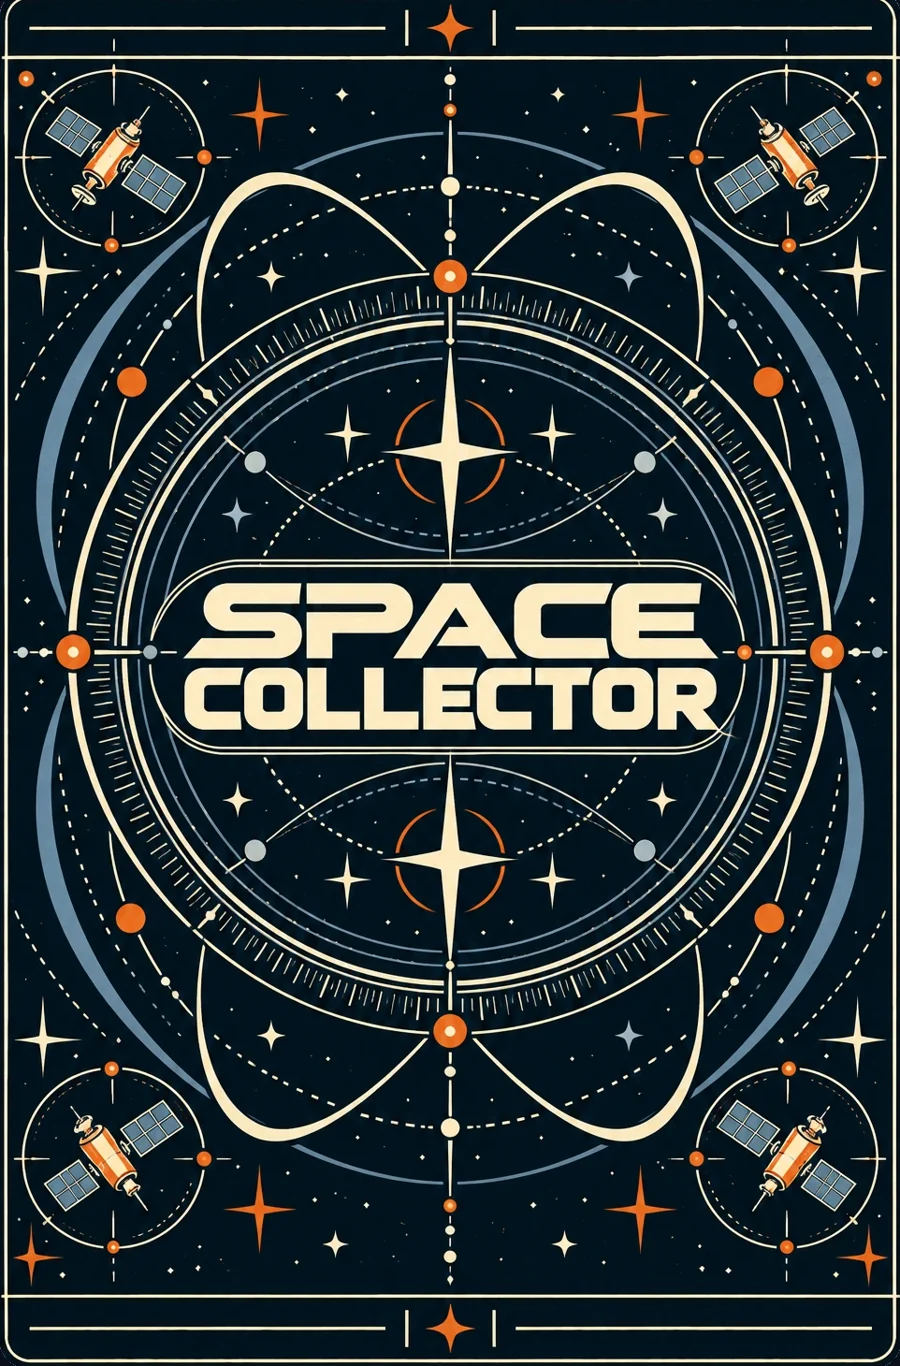
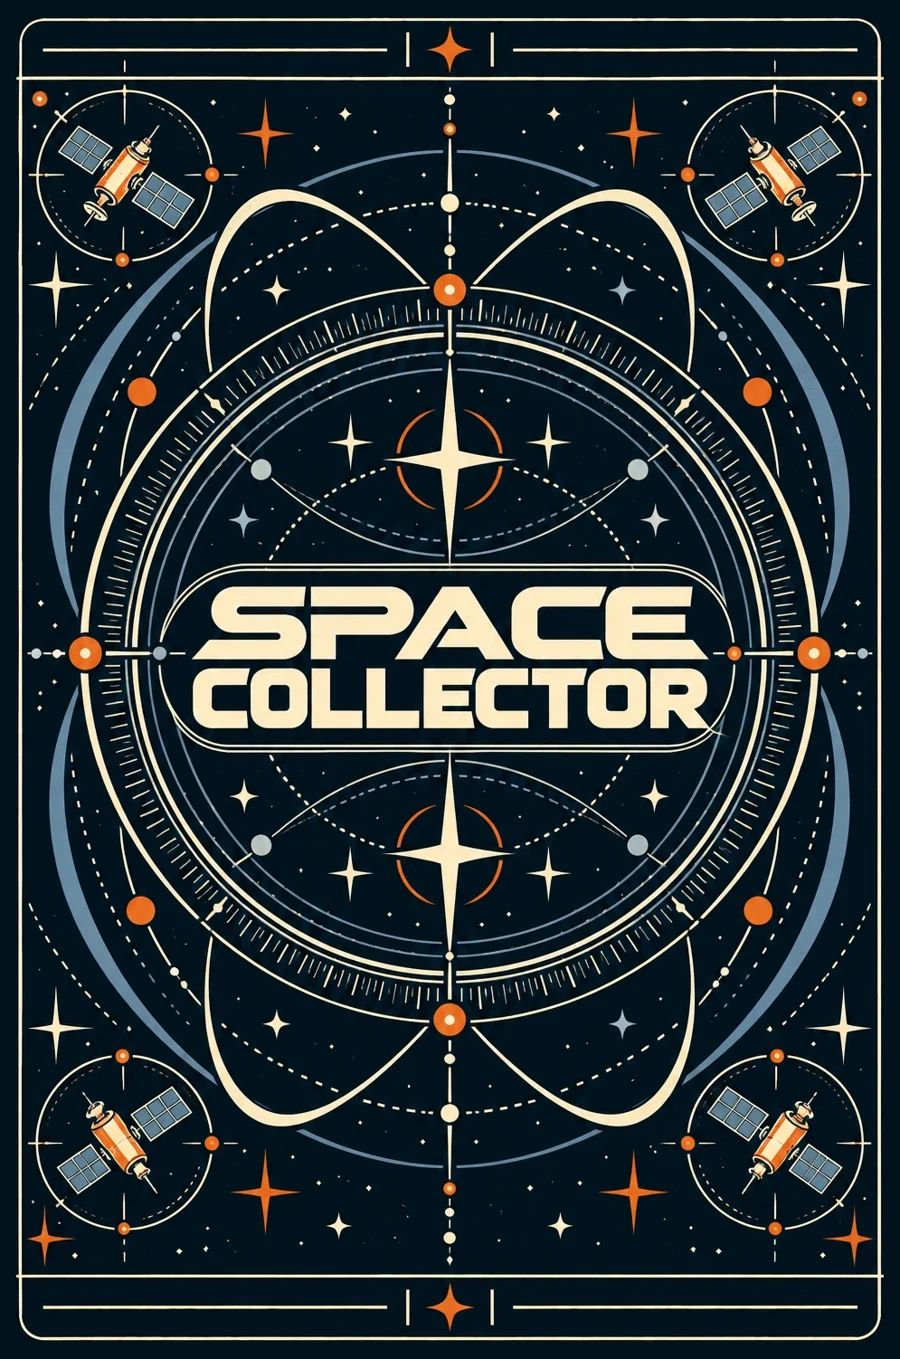
Card back: centre the frame line evenly and never crop it

diff --git a/js/main.js b/js/main.js
@@ -1,26 +1,26 @@
-import { VERSION } from './version.js?v=0.1.122';
-import { loadCatalog, frame, look, track, motion, compassPoint, enuFromAzEl, DARK_SUN_ELEVATION, SkyModel, RisingSoon, setBinocularMode, setSkyLimit } from './orbit.js?v=0.1.122';
-import { skyLimit, SKIES, DEFAULT_SKY } from './sky-limit.js?v=0.1.122';
-import { loadConstellations, CON_STARS, CON_BY_ID, conProgress } from './constellations.js?v=0.1.122';
-import { shinyFor, SHINY } from './shiny.js?v=0.1.122';
-import { progress as progressOf } from './progress.js?v=0.1.122';
-import { activeEvent, nextEvent, passIcs } from './events.js?v=0.1.122';
-import { CONSTELLATIONS } from './constellations.js?v=0.1.122';
-import { startSensors, hasLiveSensors, trueBasis, basisFromAzEl, pointing, nudgeHeading, getNudge } from './sensors.js?v=0.1.122';
-import { SkyView, shortName } from './sky.js?v=0.1.122';
-import { loadSky, eqToEnu, solarSystem, milkyWayModel } from './celestial.js?v=0.1.122';
-import { addSighting, allSightings, deleteSighting } from './store.js?v=0.1.122';
-import { cardArt } from './art.js?v=0.1.122';
-import { renderCard, cardLevel, artImage } from './card.js?v=0.1.122';
-import { onRevealNews, playReveal, playView, primeReveal, stopReveal, onRevealDismiss } from './reveal.js?v=0.1.122';
-import { buildCards, cardKeyFor, stampKeyFor, normalizeSighting, stampsIn, fleetLevel } from './card-model.js?v=0.1.122';
-import { collectedDuringPass, collectedTonight, canCapture, nightsIn } from './observation.js?v=0.1.122';
-import { naturalTargets } from './natural.js?v=0.1.122';
-import { TIER_INFO } from './rarity.js?v=0.1.122';
-import { SETS } from './sets.js?v=0.1.122';
-import { TYPE_LABEL, ownerName, orbitStats } from './facts.js?v=0.1.122';
-import { loadLore, titleFor, factFor, richText } from './lore.js?v=0.1.122';
-import { PlaneTracker, planesAvailable, aircraftName, isHelicopter, planePath } from './planes.js?v=0.1.122';
+import { VERSION } from './version.js?v=0.1.123';
+import { loadCatalog, frame, look, track, motion, compassPoint, enuFromAzEl, DARK_SUN_ELEVATION, SkyModel, RisingSoon, setBinocularMode, setSkyLimit } from './orbit.js?v=0.1.123';
+import { skyLimit, SKIES, DEFAULT_SKY } from './sky-limit.js?v=0.1.123';
+import { loadConstellations, CON_STARS, CON_BY_ID, conProgress } from './constellations.js?v=0.1.123';
+import { shinyFor, SHINY } from './shiny.js?v=0.1.123';
+import { progress as progressOf } from './progress.js?v=0.1.123';
+import { activeEvent, nextEvent, passIcs } from './events.js?v=0.1.123';
+import { CONSTELLATIONS } from './constellations.js?v=0.1.123';
+import { startSensors, hasLiveSensors, trueBasis, basisFromAzEl, pointing, nudgeHeading, getNudge } from './sensors.js?v=0.1.123';
+import { SkyView, shortName } from './sky.js?v=0.1.123';
+import { loadSky, eqToEnu, solarSystem, milkyWayModel } from './celestial.js?v=0.1.123';
+import { addSighting, allSightings, deleteSighting } from './store.js?v=0.1.123';
+import { cardArt } from './art.js?v=0.1.123';
+import { renderCard, cardLevel, artImage } from './card.js?v=0.1.123';
+import { onRevealNews, playReveal, playView, primeReveal, stopReveal, onRevealDismiss } from './reveal.js?v=0.1.123';
+import { buildCards, cardKeyFor, stampKeyFor, normalizeSighting, stampsIn, fleetLevel } from './card-model.js?v=0.1.123';
+import { collectedDuringPass, collectedTonight, canCapture, nightsIn } from './observation.js?v=0.1.123';
+import { naturalTargets } from './natural.js?v=0.1.123';
+import { TIER_INFO } from './rarity.js?v=0.1.123';
+import { SETS } from './sets.js?v=0.1.123';
+import { TYPE_LABEL, ownerName, orbitStats } from './facts.js?v=0.1.123';
+import { loadLore, titleFor, factFor, richText } from './lore.js?v=0.1.123';
+import { PlaneTracker, planesAvailable, aircraftName, isHelicopter, planePath } from './planes.js?v=0.1.123';
 
 const $ = (id) => document.getElementById(id);
 const RAD = Math.PI / 180;

diff --git a/js/cards-page.js b/js/cards-page.js
@@ -1,18 +1,18 @@
-import { renderCard, renderCardTile, renderPassport, attachTilt, attachGyro, attachFlip, artImage } from './card.js?v=0.1.122';
-import { cardArt } from './art.js?v=0.1.122';
-import { buildCards, cardKeyFor, normalizeSighting } from './card-model.js?v=0.1.122';
-import { applyBack } from './card-backs.js?v=0.1.122';
-import { SETS, assignSets } from './sets.js?v=0.1.122';
-import { TIERS, TIER_INFO } from './rarity.js?v=0.1.122';
-import { loadLore, titleFor, factFor } from './lore.js?v=0.1.122';
-import { loadConstellations, CONSTELLATIONS } from './constellations.js?v=0.1.122';
-import { progress } from './progress.js?v=0.1.122';
-import { eventBadges, nextEvent } from './events.js?v=0.1.122';
-import { drawShareCard, shareCard } from './share-card.js?v=0.1.122';
-import { conArt } from './con-art.js?v=0.1.122';
-import { CON_BY_ID } from './constellations.js?v=0.1.122';
-import { allSightings, deleteSighting } from './store.js?v=0.1.122';
-import { addStarfield, attachTileTilt } from './starfield.js?v=0.1.122';
+import { renderCard, renderCardTile, renderPassport, attachTilt, attachGyro, attachFlip, artImage } from './card.js?v=0.1.123';
+import { cardArt } from './art.js?v=0.1.123';
+import { buildCards, cardKeyFor, normalizeSighting } from './card-model.js?v=0.1.123';
+import { applyBack } from './card-backs.js?v=0.1.123';
+import { SETS, assignSets } from './sets.js?v=0.1.123';
+import { TIERS, TIER_INFO } from './rarity.js?v=0.1.123';
+import { loadLore, titleFor, factFor } from './lore.js?v=0.1.123';
+import { loadConstellations, CONSTELLATIONS } from './constellations.js?v=0.1.123';
+import { progress } from './progress.js?v=0.1.123';
+import { eventBadges, nextEvent } from './events.js?v=0.1.123';
+import { drawShareCard, shareCard } from './share-card.js?v=0.1.123';
+import { conArt } from './con-art.js?v=0.1.123';
+import { CON_BY_ID } from './constellations.js?v=0.1.123';
+import { allSightings, deleteSighting } from './store.js?v=0.1.123';
+import { addStarfield, attachTileTilt } from './starfield.js?v=0.1.123';
 
 const $ = (id) => document.getElementById(id);
 const state = { raw: [], cards: [], byKey: new Map(), sightingsByKey: new Map(), seenMembers: new Map(), view: 'owned', query: '', set: 'all', rarity: 'all', list: [], index: 0, preview: false, ready: false };

diff --git a/js/card.js b/js/card.js
@@ -1,17 +1,17 @@
 // Retro space-age cards. Text remains live; the foil follows pointer or optional phone tilt.
-import { cardArt } from './art.js?v=0.1.122';
-import { TIER_INFO } from './rarity.js?v=0.1.122';
-import { SET_BY_ID } from './sets.js?v=0.1.122';
-import { TYPE_LABEL, orbitStats, sizeLabel, formatDate } from './facts.js?v=0.1.122';
-import { titleFor, factFor, yearsUp, lapsPerDay, thirdStat, richText, seriesKeyOf } from './lore.js?v=0.1.122';
-import { artFileFor } from './art-keys.js?v=0.1.122';
-import { ART_FILES, ART_STARS } from './art-files.js?v=0.1.122';
-import { stampsIn, fleetLevel, fleetThresholds, sightingKeys } from './card-model.js?v=0.1.122';
-import { nightsIn } from './observation.js?v=0.1.122';
-import { CON_BY_ID, conProgress } from './constellations.js?v=0.1.122';
-import { SHINY } from './shiny.js?v=0.1.122';
-import { conArt } from './con-art.js?v=0.1.122';
-import { CON_FIGURES } from './con-figures.js?v=0.1.122';
+import { cardArt } from './art.js?v=0.1.123';
+import { TIER_INFO } from './rarity.js?v=0.1.123';
+import { SET_BY_ID } from './sets.js?v=0.1.123';
+import { TYPE_LABEL, orbitStats, sizeLabel, formatDate } from './facts.js?v=0.1.123';
+import { titleFor, factFor, yearsUp, lapsPerDay, thirdStat, richText, seriesKeyOf } from './lore.js?v=0.1.123';
+import { artFileFor } from './art-keys.js?v=0.1.123';
+import { ART_FILES, ART_STARS } from './art-files.js?v=0.1.123';
+import { stampsIn, fleetLevel, fleetThresholds, sightingKeys } from './card-model.js?v=0.1.123';
+import { nightsIn } from './observation.js?v=0.1.123';
+import { CON_BY_ID, conProgress } from './constellations.js?v=0.1.123';
+import { SHINY } from './shiny.js?v=0.1.123';
+import { conArt } from './con-art.js?v=0.1.123';
+import { CON_FIGURES } from './con-figures.js?v=0.1.123';
 // The animal/symbol figure belongs to the completed (gold) constellation card only (2026-10-05): a single
 // star's card draws just the star pattern with its star marked, so the figure is a reward for finishing the set.
 const conFig = (id) => (CON_FIGURES.has(id) ? { figure: `assets/art/con/${id}.webp` } : {});

diff --git a/cards.html b/cards.html
@@ -13,8 +13,8 @@
   <link href="https://fonts.googleapis.com/css2?family=Inter:wght@400;450;500;600;650;700;750;800&family=IBM+Plex+Mono:wght@400;500;600&display=swap" rel="stylesheet">
   <link rel="preload" href="fonts/RussoOne-Regular.ttf" as="font" type="font/ttf" crossorigin>
   <link rel="preload" href="fonts/BarlowCondensed-Medium.ttf" as="font" type="font/ttf" crossorigin>
-  <link rel="stylesheet" href="css/cards.css?v=0.1.122">
-  <link rel="stylesheet" href="css/collection.css?v=0.1.122">
+  <link rel="stylesheet" href="css/cards.css?v=0.1.123">
+  <link rel="stylesheet" href="css/collection.css?v=0.1.123">
 </head>
 <body>
   <header class="collection-header sky-header"><a class="wordmark" href="./?resume=1">SPACE COLLECTOR<span>FIELD NOTES FROM ORBIT</span></a><span class="header-buttons"><button class="icon-button" id="night-toggle" type="button" aria-label="Turn on red night mode" aria-pressed="false">☾</button><a class="icon-button" href="./?resume=1&amp;more=1" aria-label="Settings"><span class="ico" data-ico="sliders"></span></a></span></header>
@@ -35,6 +35,6 @@
     <div class="viewer-header"><span id="v-position"></span><button class="close" id="v-close" type="button" autofocus>Done <span aria-hidden="true">×</span></button></div>
     <div class="viewer-scroll"><div id="slot"></div><p id="v-status" class="viewer-status" aria-live="polite"></p><button id="v-share" class="preview-button share-button" type="button" hidden>Share this card</button><button id="v-preview" class="preview-button" type="button" hidden>Preview artwork &amp; story</button><div id="v-history" class="viewer-history"></div></div>
   </dialog>
-  <script type="module" src="js/cards-page.js?v=0.1.122"></script>
+  <script type="module" src="js/cards-page.js?v=0.1.123"></script>
 </body>
 </html>

diff --git a/index.html b/index.html
@@ -15,9 +15,9 @@
   <script>try { if (localStorage.getItem("night") === "1") document.documentElement.dataset.theme = "night"; } catch {}</script>
   <link rel="preload" href="fonts/RussoOne-Regular.ttf" as="font" type="font/ttf" crossorigin>
   <link rel="preload" href="fonts/BarlowCondensed-Medium.ttf" as="font" type="font/ttf" crossorigin>
-  <link rel="stylesheet" href="css/cards.css?v=0.1.122">
-  <link rel="stylesheet" href="css/app.css?v=0.1.122">
-  <link rel="stylesheet" href="css/reveal.css?v=0.1.122">
+  <link rel="stylesheet" href="css/cards.css?v=0.1.123">
+  <link rel="stylesheet" href="css/app.css?v=0.1.123">
+  <link rel="stylesheet" href="css/reveal.css?v=0.1.123">
 </head>
 <body>
   <canvas id="sky" role="img" aria-label="Sky map aligned with your viewing direction"></canvas>
@@ -160,6 +160,6 @@
     <pre id="debug-info"></pre></details>
   </section>
 
-  <script type="module" src="js/main.js?v=0.1.122"></script>
+  <script type="module" src="js/main.js?v=0.1.123"></script>
 </body>
 </html>

diff --git a/js/tonight-worker.js b/js/tonight-worker.js
@@ -2,9 +2,9 @@
 // many satellites are visible over the night. Runs off the main thread; ~4,000 objects × 1-minute steps
 // takes a few seconds. Visibility uses the same rules as the live sky: sunlit, dark sky, and brighter than
 // the limit for your sky at that moment (light pollution, twilight, Moon; js/sky-limit.js).
-import { frame, look, setSkyLimit, setBinocularMode, DARK_SUN_ELEVATION } from './orbit.js?v=0.1.122';
-import { skyLimit } from './sky-limit.js?v=0.1.122';
-import { solarSystem, eqToEnu } from './celestial.js?v=0.1.122';
+import { frame, look, setSkyLimit, setBinocularMode, DARK_SUN_ELEVATION } from './orbit.js?v=0.1.123';
+import { skyLimit } from './sky-limit.js?v=0.1.123';
+import { solarSystem, eqToEnu } from './celestial.js?v=0.1.123';
 
 const STEP = 60000;          // 1 minute
 const GAP = 3;               // a pass ends after this many minutes out of sight

diff --git a/css/cards.css b/css/cards.css
@@ -151,7 +151,7 @@
    pre-mirrored so it reads correctly while the card faces away. */
 .card__back { position: absolute; inset: 0; z-index: 9; border-radius: 1.15em; opacity: 0; pointer-events: none; transform: scaleX(-1);
   border: .25em solid var(--tier);
-  background: #080e1a center / cover no-repeat; }   /* a random poster back, set by js/card-backs.js */
+  background: #01121c center / contain no-repeat; }   /* the back image, set by js/card-backs.js; contain so its frame line is never cropped (edges are the same navy) */
 
 /* Thumbnail typography is deliberately independent of the full card's scale. */
 .card-tile { display: flex; flex-direction: column; width: 100%; padding: 0; text-align: left; font: inherit; color: #193639; background: #eeecdf; border: 1px solid #d1d4c5; border-radius: 12px; overflow: hidden; cursor: pointer; transition: transform .2s, box-shadow .2s; }

diff --git a/js/constellations.js b/js/constellations.js
@@ -3,8 +3,8 @@
 // Every star in a stick figure (magnitude <= 5) is its own card; the constellation card turns gold when
 // you own all of them. Bright stars that already have cards (Regulus, Spica…) count as members.
 // No DOM.
-import { NATURAL, NATURAL_BY_KEY } from './natural.js?v=0.1.122';
-import { starVector } from './celestial.js?v=0.1.122';
+import { NATURAL, NATURAL_BY_KEY } from './natural.js?v=0.1.123';
+import { starVector } from './celestial.js?v=0.1.123';
 
 const GEN = { Ari: 'Arietis', Tau: 'Tauri', Gem: 'Geminorum', Cnc: 'Cancri', Leo: 'Leonis', Vir: 'Virginis', Lib: 'Librae', Sco: 'Scorpii', Sgr: 'Sagittarii',
   Cap: 'Capricorni', Aqr: 'Aquarii', Psc: 'Piscium', Ori: 'Orionis', BigDipper: 'Ursae Majoris', UMi: 'Ursae Minoris', Cas: 'Cassiopeiae', Cyg: 'Cygni', Cru: 'Crucis' };

diff --git a/js/reveal.js b/js/reveal.js
@@ -5,9 +5,9 @@
 //  Everything scales with rarity (Legendary dims the sky, shockwave, held breath, slow flip, fanfare).
 // Waits use timers, not animation.finished, so a paused tab can never freeze the sequence.
 
-import { TIER_INFO } from './rarity.js?v=0.1.122';
-import { levelFor, attachTilt, attachGyro, attachFlip } from './card.js?v=0.1.122';
-import { applyBack } from './card-backs.js?v=0.1.122';
+import { TIER_INFO } from './rarity.js?v=0.1.123';
+import { levelFor, attachTilt, attachGyro, attachFlip } from './card.js?v=0.1.123';
+import { applyBack } from './card-backs.js?v=0.1.123';
 
 const FX = {
   common:    { particles: 14,  flip: 520,  spin: 0,   dim: 0,   shock: false, notes: [880],                            hold: 0 },

diff --git a/css/reveal.css b/css/reveal.css
@@ -21,7 +21,7 @@
 #reveal-card .card { font-size: var(--cf); }
 
 .rv-back { border-radius: 1.15em; font-size: var(--cf); overflow: hidden;
-  background: #080e1a center / cover no-repeat;   /* a random poster back, set by js/card-backs.js */
+  background: #01121c center / contain no-repeat;   /* the back image, set by js/card-backs.js; contain so its frame line is never cropped (edges are the same navy) */
   border: .25em solid color-mix(in srgb, var(--fx) 70%, #0000); }
 .rv-back .tap { position: absolute; left: 50%; bottom: 1.8em; transform: translateX(-50%); padding: .45em 1.1em; border-radius: 999px; white-space: nowrap;
   background: rgba(5, 10, 24, .78); border: .08em solid color-mix(in srgb, var(--fx) 60%, transparent);

diff --git a/js/card-model.js b/js/card-model.js
@@ -1,8 +1,8 @@
 // Shared catalogue → card mapping. Constellations (Starlink, OneWeb, Qianfan, Kuiper) are one fleet
 // card each; every launch in the fleet is a stamp on that card. Other objects are one card each.
-import { assignSets } from './sets.js?v=0.1.122';
-import { tierFor } from './rarity.js?v=0.1.122';
-import { NATURAL } from './natural.js?v=0.1.122';
+import { assignSets } from './sets.js?v=0.1.123';
+import { tierFor } from './rarity.js?v=0.1.123';
+import { NATURAL } from './natural.js?v=0.1.123';
 
 // Fleet members carry their launch key in the catalogue (`card` = 'STARLINK:2024-012'). That's the
 // stamp; the card itself is the fleet ('STARLINK').

diff --git a/js/progress.js b/js/progress.js
@@ -1,7 +1,7 @@
 // Player progress from the sighting log: XP and observer rank, tonight's three missions, a weekly streak and
 // achievements. Everything is derived from the saved sightings (nothing extra is stored), so it can't drift.
 // info(cardKey) -> { tier, type, owner, launch, natural, con } | null. No DOM.
-import { nightKey } from './observation.js?v=0.1.122';
+import { nightKey } from './observation.js?v=0.1.123';
 
 export const RANKS = [
   [0, 'Stargazer'], [200, 'Spotter'], [600, 'Tracker'], [1500, 'Navigator'], [4000, 'Flight Controller'], [10000, 'Mission Control'],
